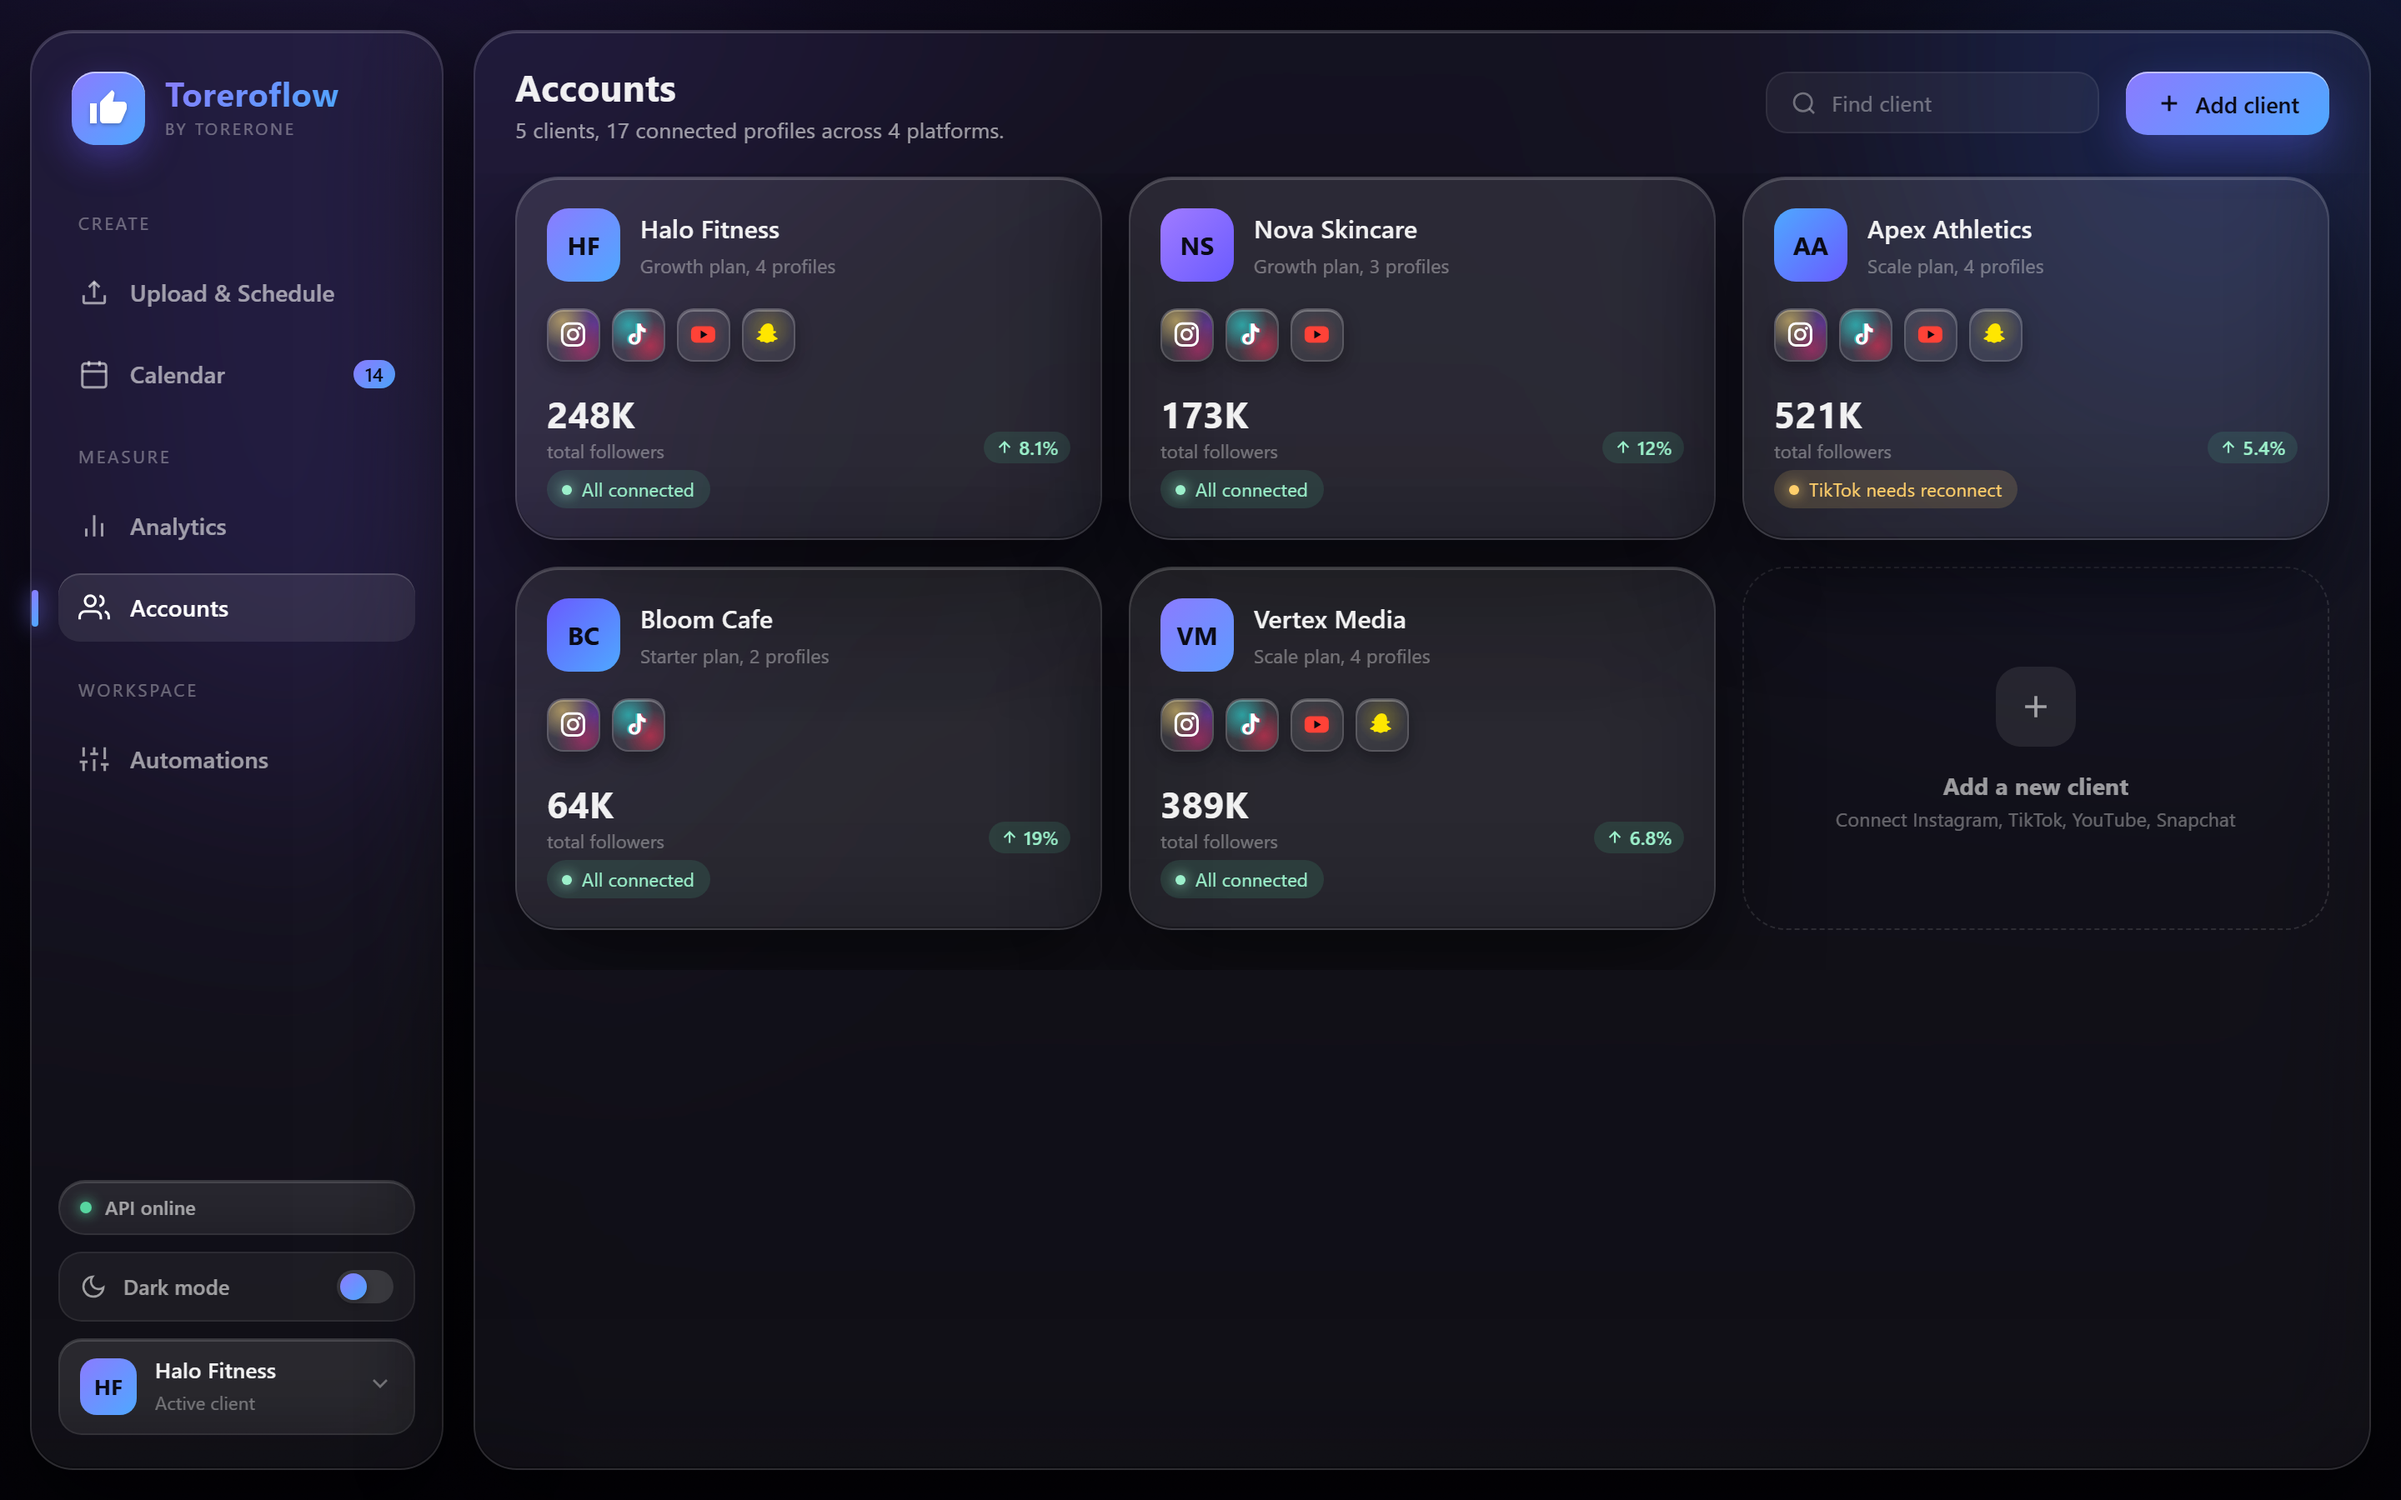
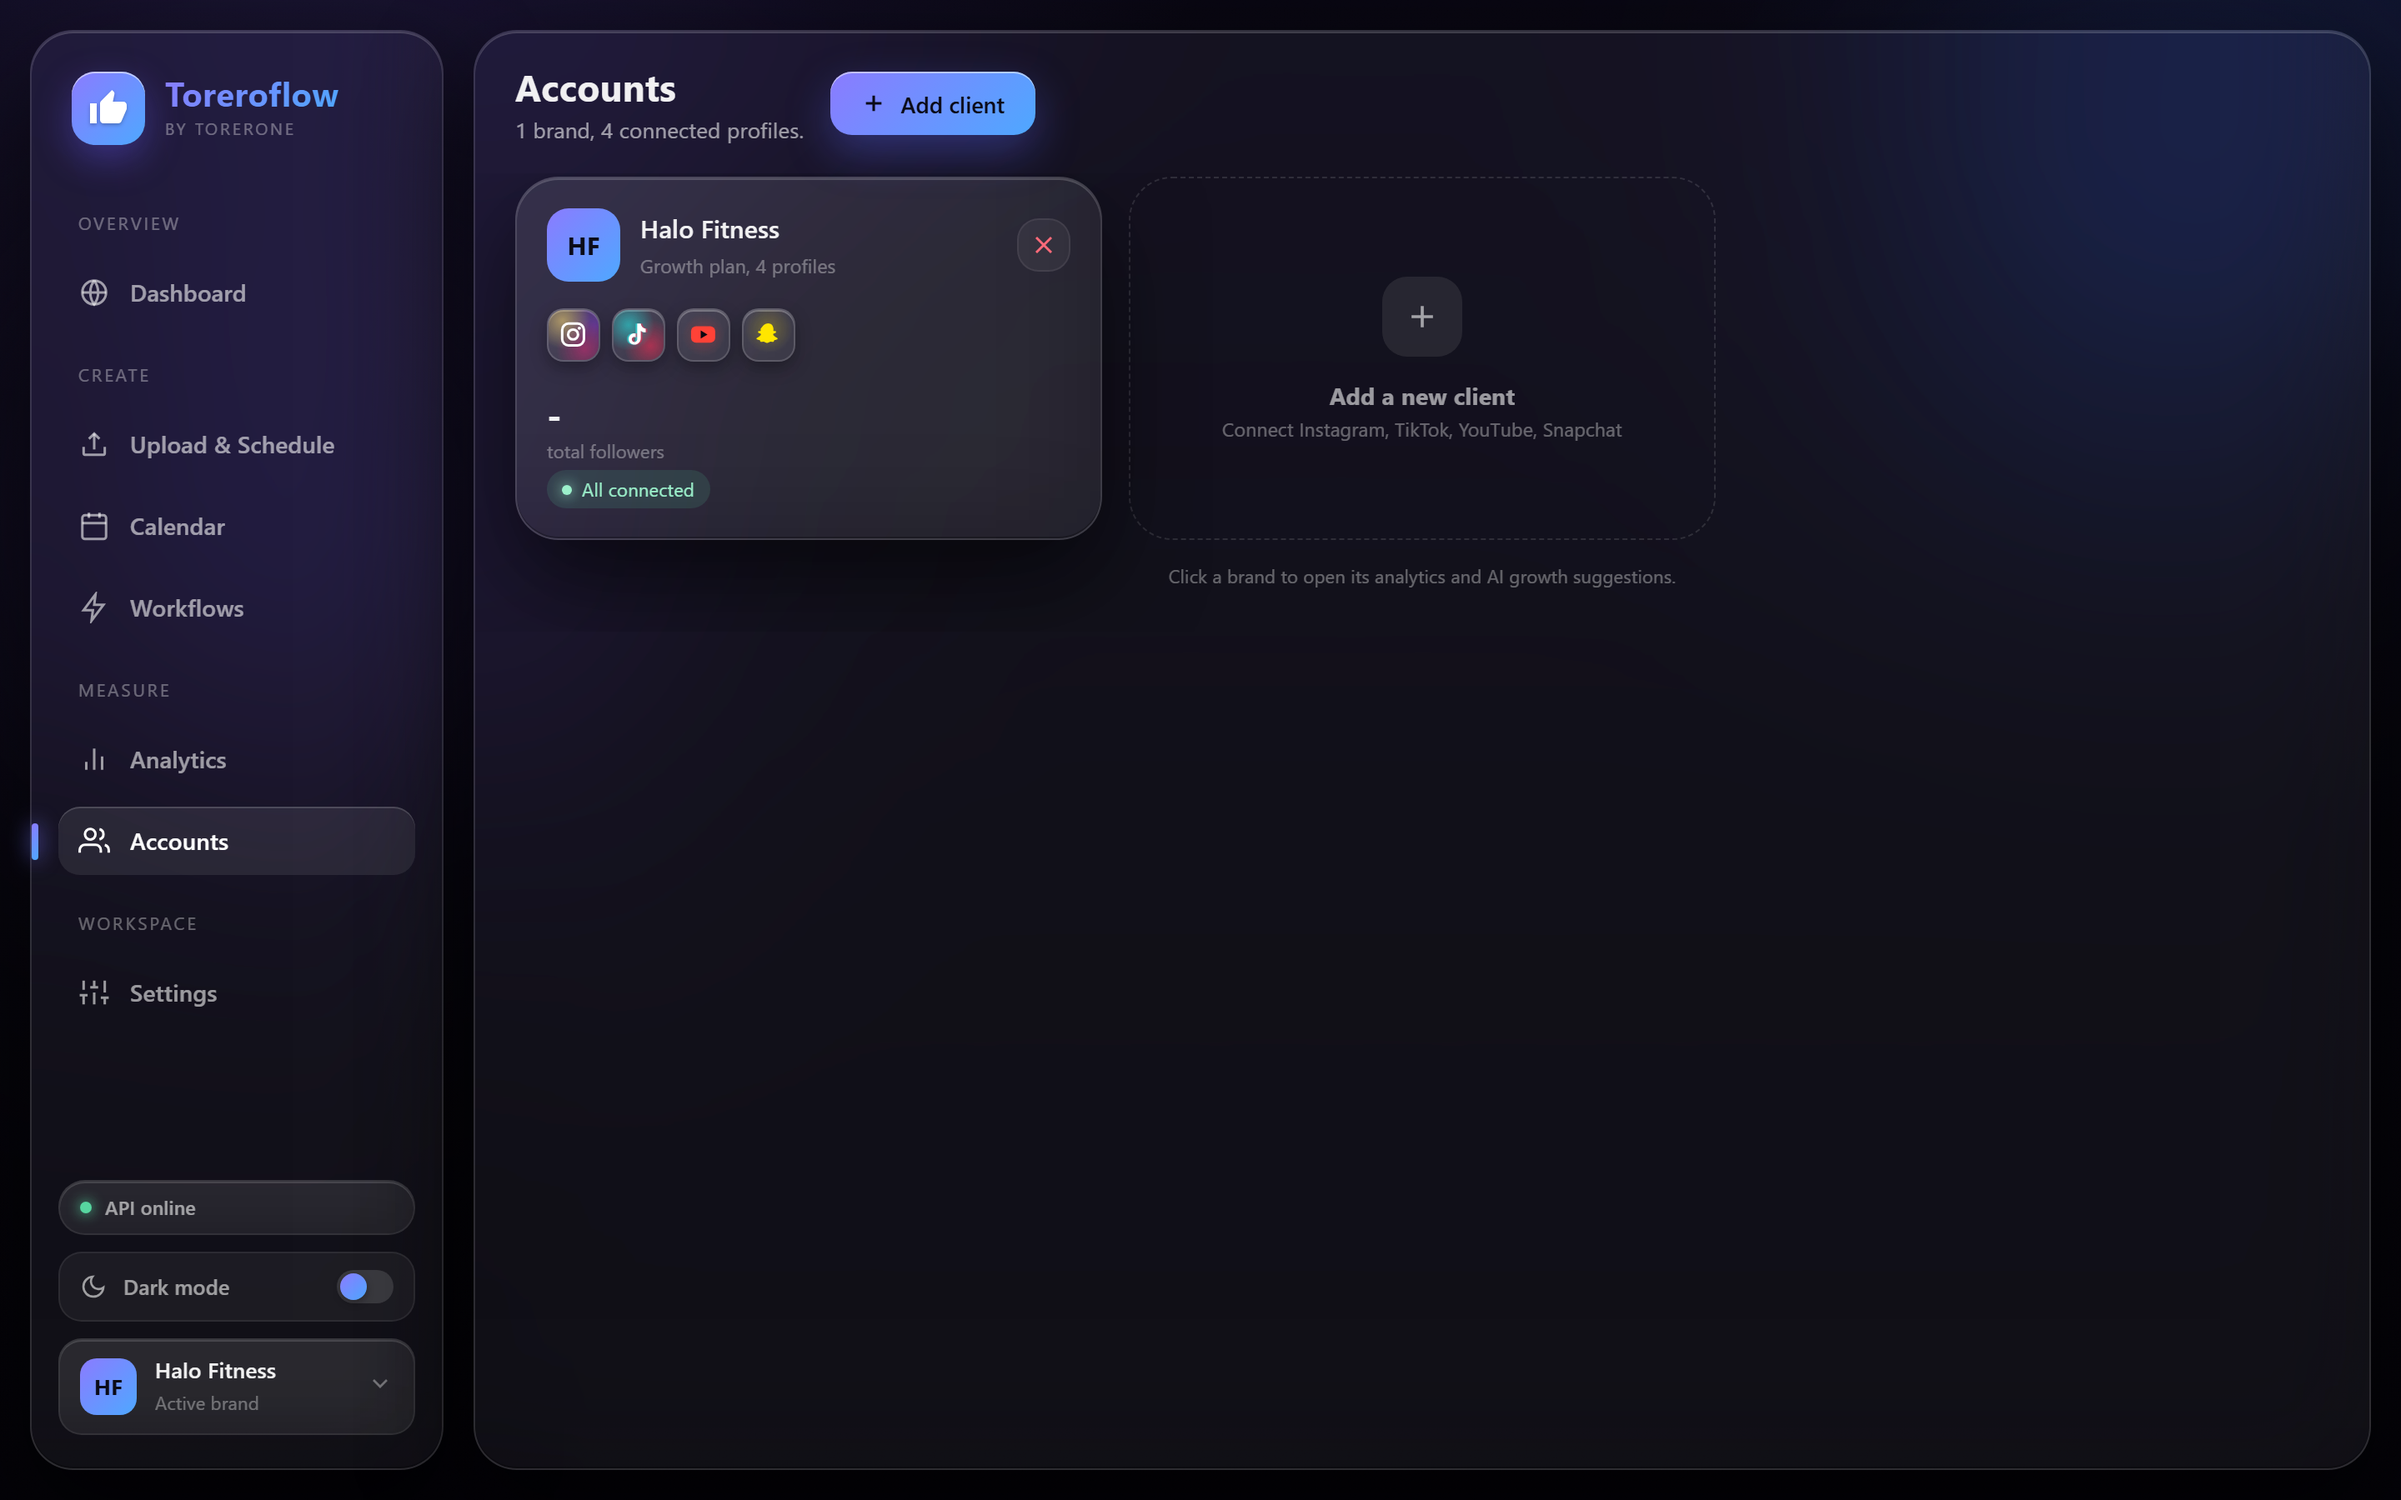
docs: refresh README with current app screenshots and live feature statuses

diff --git a/README.md b/README.md
@@ -12,7 +12,7 @@ into client-ready reports.
 
 <br/>
 
-![Milestone](https://img.shields.io/badge/milestone-M0%20complete-8b7bff?style=for-the-badge)
+![Milestone](https://img.shields.io/badge/milestone-M3%20complete-8b7bff?style=for-the-badge)
 ![Tauri](https://img.shields.io/badge/Tauri-2-24C8DB?style=for-the-badge&logo=tauri&logoColor=white)
 ![React](https://img.shields.io/badge/React-18-61DAFB?style=for-the-badge&logo=react&logoColor=black)
 ![TypeScript](https://img.shields.io/badge/TypeScript-5-3178C6?style=for-the-badge&logo=typescript&logoColor=white)
@@ -21,7 +21,7 @@ into client-ready reports.
 
 <br/>
 
-<img src="docs/screens/upload-dark.png" width="920" alt="Toreroflow - Upload & Schedule screen (dark)" />
+<img src="docs/screens/dashboard-dark.png" width="920" alt="Toreroflow - Dashboard (dark)" />
 
 </div>
 
@@ -31,33 +31,33 @@ into client-ready reports.
 
 | | Feature | Status |
 |---|---|---|
-| 🎛 | **Multi-account management** - clients, connected profiles, connection health | 🟣 UI live (M0) · wiring in M1 |
-| 🎬 | **Video intake** - drag & drop, local media library | ⚪ M2 |
-| 💬 | **Auto captioning** - transcription + styled burned-in captions (Bold pop, Karaoke, Minimal, Neon) | ⚪ M2 |
-| 📐 | **Auto formatting** - per-platform 9:16 reframe & transcode profiles | ⚪ M2 |
-| ✍ | **AI captions & hooks** - Claude drafts per-platform copy, human approves | ⚪ M2 |
-| 🗓 | **Scheduling** - calendar & queue, days ahead, per client & platform | ⚪ M3–M4 |
-| 🚀 | **Auto publishing** - cloud workers post at the scheduled moment, with retries | ⚪ M3 |
-| ⏰ | **Best-time engine** - posting windows computed from each account's own history | ⚪ M5 |
-| 📊 | **Analytics** - KPIs, trends, platform mix, top posts, branded PDF exports | 🟣 UI live (M0) · data in M5 |
+| 🎛 | **Multi-account management** - clients, provider-backed connections (Zernio OAuth), connection health | ✅ Live |
+| 🎬 | **Video intake** - drag & drop uploads, storage, processing pipeline | ✅ Live |
+| 💬 | **Auto captioning** - local Whisper transcription + Bold pop captions burned in (more styles coming) | ✅ Live |
+| 📐 | **Auto formatting** - 1080x1920 vertical reframe with per-platform profiles | ✅ Live |
+| ✍ | **AI captions & hooks** - Claude drafts the hook, caption, and hashtags; human edits and approves | ✅ Live |
+| 🗓 | **Scheduling** - day/week/month calendar with US holiday reminders, queue, per client & platform | ✅ Live |
+| 🚀 | **Auto publishing** - delayed jobs post through the provider at the scheduled moment, with retries | ✅ Live |
+| ⏰ | **Best-time engine** - posting windows computed from each account's own history | ⚪ Up next |
+| 📊 | **Analytics** - KPIs, trends, platform mix, top posts, branded PDF exports | 🟣 UI live · data ingestion up next |
 
 ## 🖥 The app
 
 <table>
   <tr>
-    <td align="center"><b>Content Calendar</b><br/><img src="docs/screens/calendar-dark.png" alt="Content Calendar screen" /></td>
-    <td align="center"><b>Client Analytics</b><br/><img src="docs/screens/analytics-dark.png" alt="Client Analytics screen" /></td>
+    <td align="center"><b>Upload & Schedule</b><br/><img src="docs/screens/upload-dark.png" alt="Upload and Schedule screen" /></td>
+    <td align="center"><b>Content Calendar with US holidays</b><br/><img src="docs/screens/calendar-dark.png" alt="Month calendar with holiday reminders" /></td>
   </tr>
   <tr>
+    <td align="center"><b>Workflows (repurpose fan-out)</b><br/><img src="docs/screens/workflows-dark.png" alt="Workflows screen" /></td>
     <td align="center"><b>Accounts</b><br/><img src="docs/screens/accounts-dark.png" alt="Accounts screen" /></td>
-    <td align="center"><b>Post Composer</b><br/><img src="docs/screens/composer-dark.png" alt="Post Composer modal" /></td>
   </tr>
 </table>
 
 <details>
   <summary>☀ <b>Light mode</b> (full theme parity - click to expand)</summary>
   <br/>
-  <img src="docs/screens/upload-light.png" alt="Upload & Schedule screen in light mode" />
+  <img src="docs/screens/dashboard-light.png" alt="Dashboard in light mode" />
 </details>
 
 ## 🏗 Architecture
@@ -126,10 +126,10 @@ pnpm --filter @toreroflow/desktop tauri dev   # launch the app
 ## 🗺 Roadmap
 
 - [x] **M0 · Scaffold & shell** - monorepo, DB schema, auth API, full UI port ✅ `v0.1.0`
-- [ ] **M1 · Clients & connections** - client CRUD, publishing provider, OAuth per platform
-- [ ] **M2 · Upload & media pipeline** - storage, transcription, AI captions, 9:16 renders
-- [ ] **M3 · Scheduling & publishing** - delayed jobs, dry-run → sandbox → live, retries
-- [ ] **M4 · Calendar** - drag-to-reschedule across week & month views
+- [x] **M1 · Clients & connections** - client CRUD, Zernio provider, OAuth per platform ✅
+- [x] **M2 · Upload & media pipeline** - storage, transcription, AI captions, 9:16 renders ✅
+- [x] **M3 · Scheduling & publishing** - delayed jobs with retries, dashboard, holiday calendar ✅
+- [ ] **M4 · Calendar polish** - drag-to-reschedule (day/week/month views already live)
 - [ ] **M5 · Analytics** - daily metric ingestion, dashboards, branded PDF exports
 - [ ] **M6 · Package & polish** - signed installers, auto-update, theme & state polish
 
